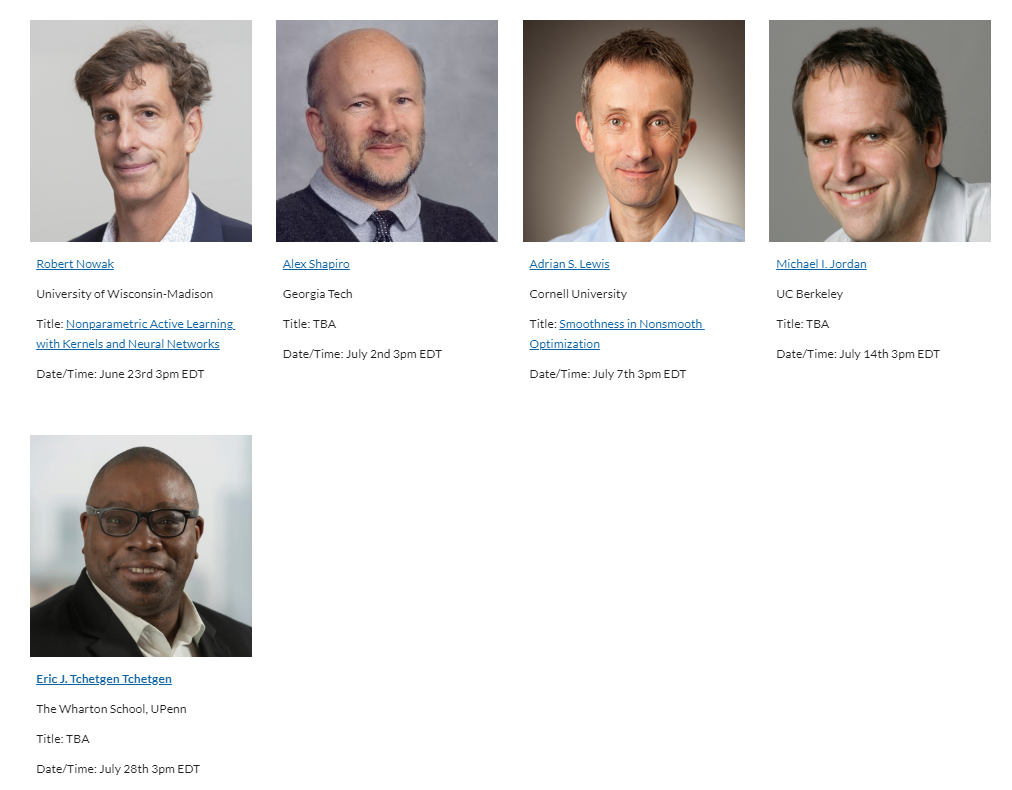
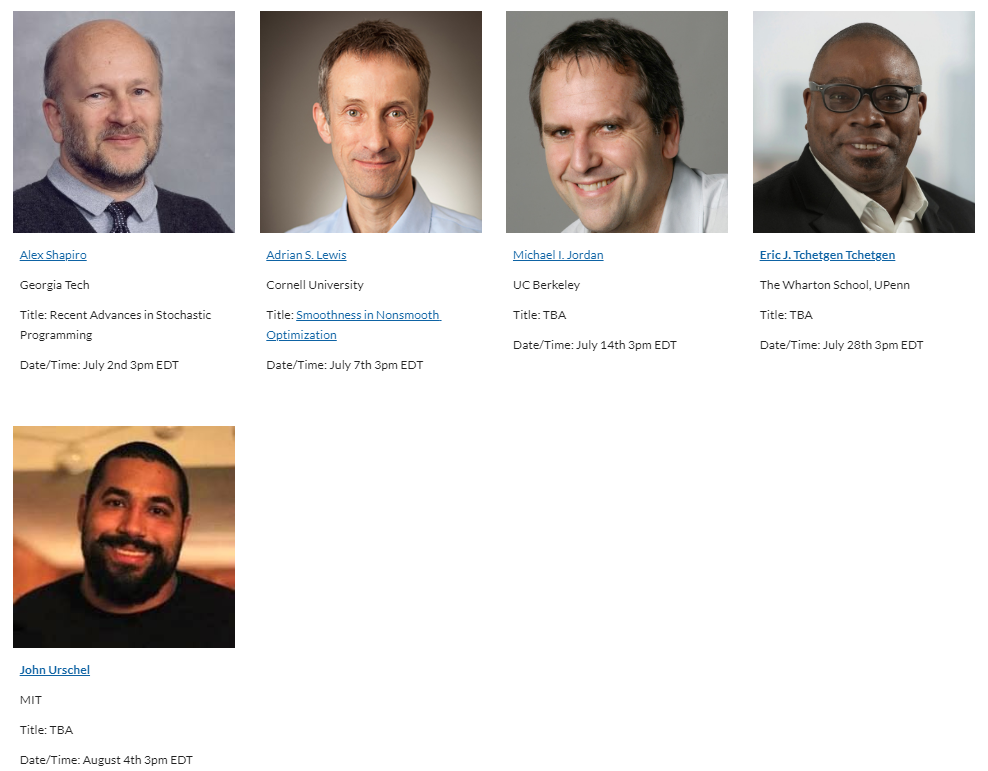
Update Math-for-DS.md

diff --git a/_projects/Math-for-DS.md b/_projects/Math-for-DS.md
@@ -21,16 +21,19 @@ To ask the speaker a question, please use the Q&A function in Zoom to type your 
 
 ## Next speaker
 
- <p align="center"><img width="20%" src="/images/news/MathDS/nowak.png" /></p>
+ <p align="center"><img width="20%" src="/images/news/MathDS/shapiro.jpg" /></p>
 
-##### **Next Speaker:** [**Robert Nowak**](https://nowak.ece.wisc.edu/), University of Wisconsin, Madison
-##### **Date/Time:** Tuesday, June 23rd, 3pm EDT [**[Zoom Link]**](https://psu.zoom.us/j/95512102924) [**[Facebook Link]**](https://www.facebook.com/events/542617073284204)
-##### **Title:** Nonparametric Active Learning with Kernels and Neural Networks
+##### **Next Speaker:** [**Alex Shapiro**](https://www2.isye.gatech.edu/people/faculty/Alex_Shapiro/),Georgia Institute of Technology
+##### **Date/Time:** Thursday, July 2nd, 3pm EDT [**[Zoom Link]**](https://psu.zoom.us/j/95512102924) [**[Facebook Link]**](https://www.facebook.com/events/283154839598712)
+##### **Title:** Recent Advances in Stochastic Programming
 
-**Abstract:** The field of Machine Learning (ML) has advanced considerably in recent years, but mostly in well-defined domains using huge amounts of human-labeled training data. Machines can recognize objects in images and translate text, but they must be trained with more images and text than a person can see in nearly a lifetime.  The computational complexity of training has been offset by recent technological advances, but the cost of training data is measured in terms of the human effort in labeling data. People are not getting faster nor cheaper, so generating labeled training datasets has become a major bottleneck in ML pipelines.
-Active ML aims to address this issue by designing learning algorithms that automatically and adaptively select the most informative examples for labeling so that human time is not wasted labeling irrelevant, redundant, or trivial examples. This talk explores the development of active ML theory and methods over the past decade, including a new approach applicable to kernel methods and neural networks, which views the learning problem through the lens of representer theorems. This perspective highlights the effect that adding a given training example has on the representation.   The new approach is shown to possess a variety of desirable mathematical properties that allow active learning algorithms to learn good classifiers from few labeled examples.
+**Abstract:** Traditionally stochastic  optimization was discussed in the realms of Markov Decision Processes (MDP), Stochastic Optimal Control (SOC) and Stochastic Programming (SP). Although MDP, SOC and SP are supposed to deal with somewhat related classes of problems, the modeling and numerical approaches are quite different. The origins of SP can be traced back to the early days of linear programming and have dealt with two stage linear stochastic programs. Until recently, modeling and numerical approaches to SP were dominated by the generation of  (finite) scenario trees and consequently solving  the constructed deterministic optimization problems.  In the linear case this leads to large scale linear programming. However,  it was shown that from such a deterministic point of view  even two stage linear stochastic programming problems are computationally intractable. Recent developments of theory and numerical algorithms  based on Monte Carlo  randomization techniques,  suggest quite a different view of SP. It was demonstrated   that  certain classes of stochastic programs, unattainable by the deterministic equivalent approach,  can be solved with reasonable accuracy often sufficient for engineering applications. This talk is aimed at giving a general overview of the current state of SP. Especially, multistage SP will be discussed.
 
-**Bio:** Robert Nowak is the McFarland-Bascom Professor in Engineering at the University of Wisconsin-Madison, where his research focuses on signal processing, machine learning, optimization, and statistics. He is a professor in Electrical and Computer Engineering, as well as being affiliated with the departments of Computer Sciences, Statistics, and Biomedical Engineering. He is a Fellow of the IEEE and the Wisconsin Institute for Discovery, a member of the Wisconsin Optimization Research Consortium, and Machine Learning@Wisconsin, and is an organizer of the SILO seminar series. He is also an Adjoint Professor at the Toyota Technological Institute at Chicago.
+**Bio:** Alexander Shapiro is  Russell Chandler III Chair and Professor in the School of Industrial and Systems Engineering at Georgia Institute of Technology, Atlanta, USA. He has published more than 140 research articles in peer review journals  and is a coauthor of several books. He was   on the editorial board of several professional journals.  He was an area editor (Optimization) of Operations Research, and  the  Editor-in-Chief of the Mathematical Programming, Series A,  2012-2017, flagship journal of the Mathematical Optimization Society.
+
+He gave numerous  invited  keynote and plenary talks, including  invited section talk (section Control Theory & Optimization) at the  International Congress of Mathematicians 2010, Hyderabad, India.
+
+In 2013 he was a recipient of  Khachiyan prize awarded by the INFORMS Optimization Society, and in 2018 he was a recipient of the Dantzig Prize awarded by the Mathematical Optimization Society and Society for Industrial and Applied Mathematics. In 2020 he was elected to the  National Academy of Engineering.
 
 ## Upcoming Speakers
 
